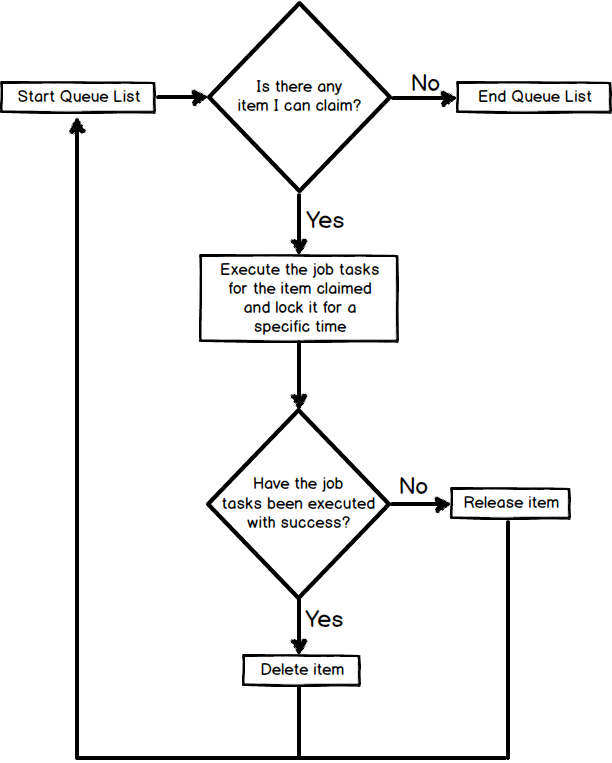
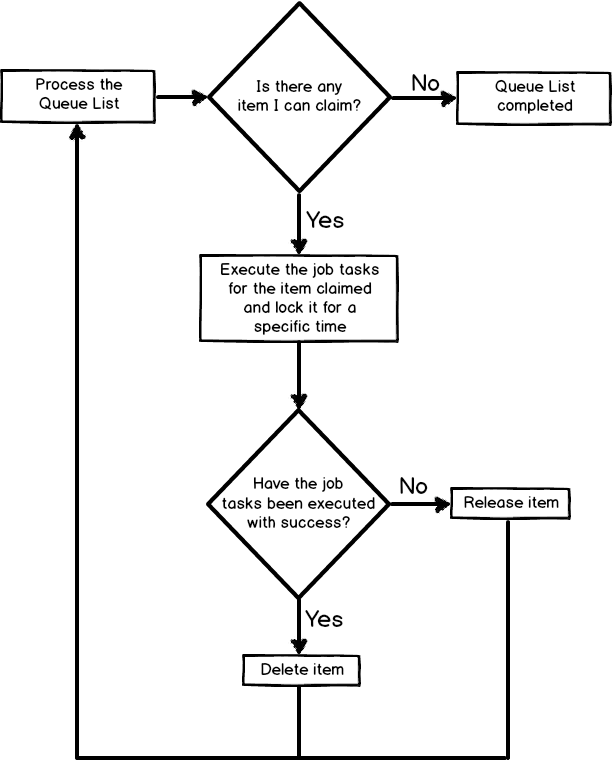
GitHub - php-queue-system: post corrections

diff --git a/README.md b/README.md
@@ -1,16 +1,16 @@
 #An example of a Queue System in PHP
-When we want to increase the user experience on our website it’s better to not let the user wait long time for a big process that happen in the back-end and let him free to surf our website having a great experience.
-For doing that we need to add the job tasks that require long process to a queue list of processes that will be executed in a second time.
+Optimise a website for a better user experience is always an important factor. Sometimes the users have to wait for an answer from the server because of big processes that happen in the back end.
+But not all the processes in the back end have to be execute before to let the server reply to the user request. So we can move those kind of processes, expecially if they have job tasks with longer loading time, to a queue list of processes that will be executed in a second time.
 
 ![queue list](https://raw.githubusercontent.com/geberele/php-queue-system/master/images/queue_list.png)
 
 We can decide when is the best time to execute the job tasks for the items in the queue list, it's up to us, for example it could be during the night if the tasks require long time and we don't want many people using the website in that time.
 
-The structure of the workflow that represent the execution of a queue list looks like:
+The structure of the workflow that represents the execution of a queue list looks like:
 
 ![flowchart](https://raw.githubusercontent.com/geberele/php-queue-system/master/images/flowchart.png)
 
-Translating in php code the above flowchart we get something like:
+Translating in PHP code the above flowchart we get something like:
 
 ```
 <?php
@@ -169,6 +169,6 @@ class QueueClass {
 }
 ```
 
-This queue class is good for static implementation, for a dynamic implementation it's necessary to store the queue list in a database.
+This queue class is good for static implementation, for a dynamic implementation is necessary to store the queue list in a database.
 
 The full example could be found [here](https://github.com/geberele/php-queue-system).
